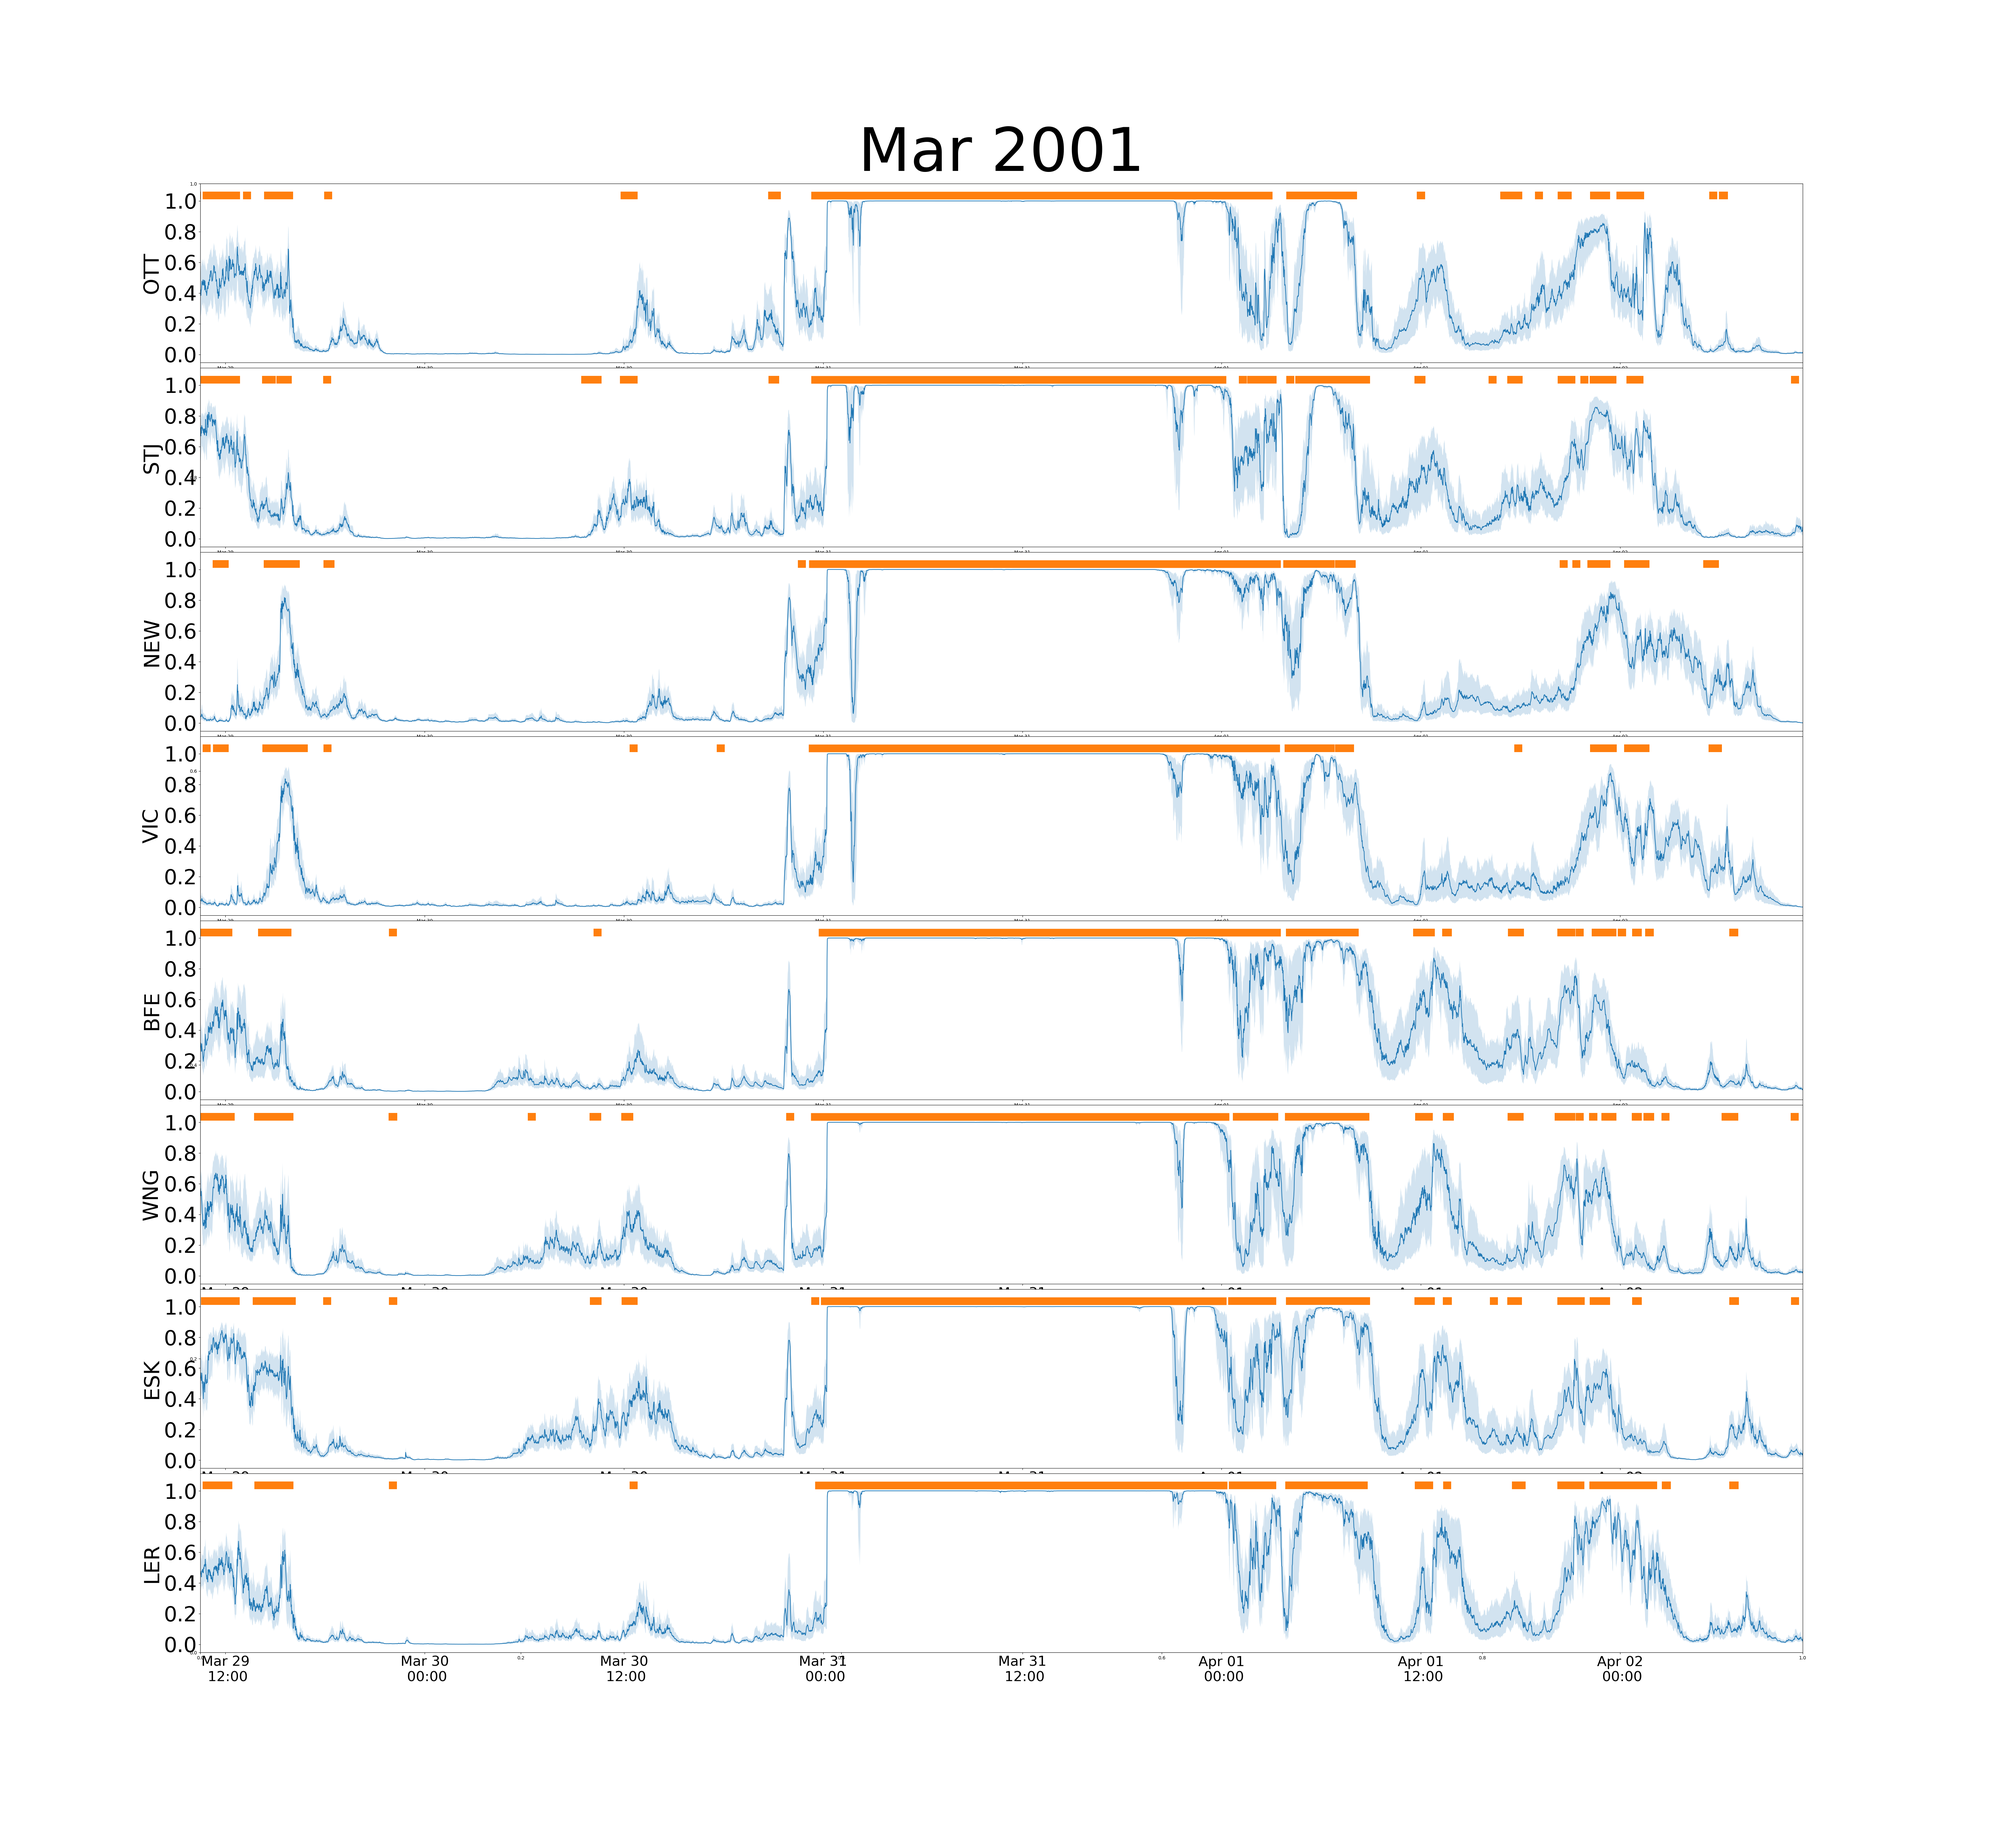
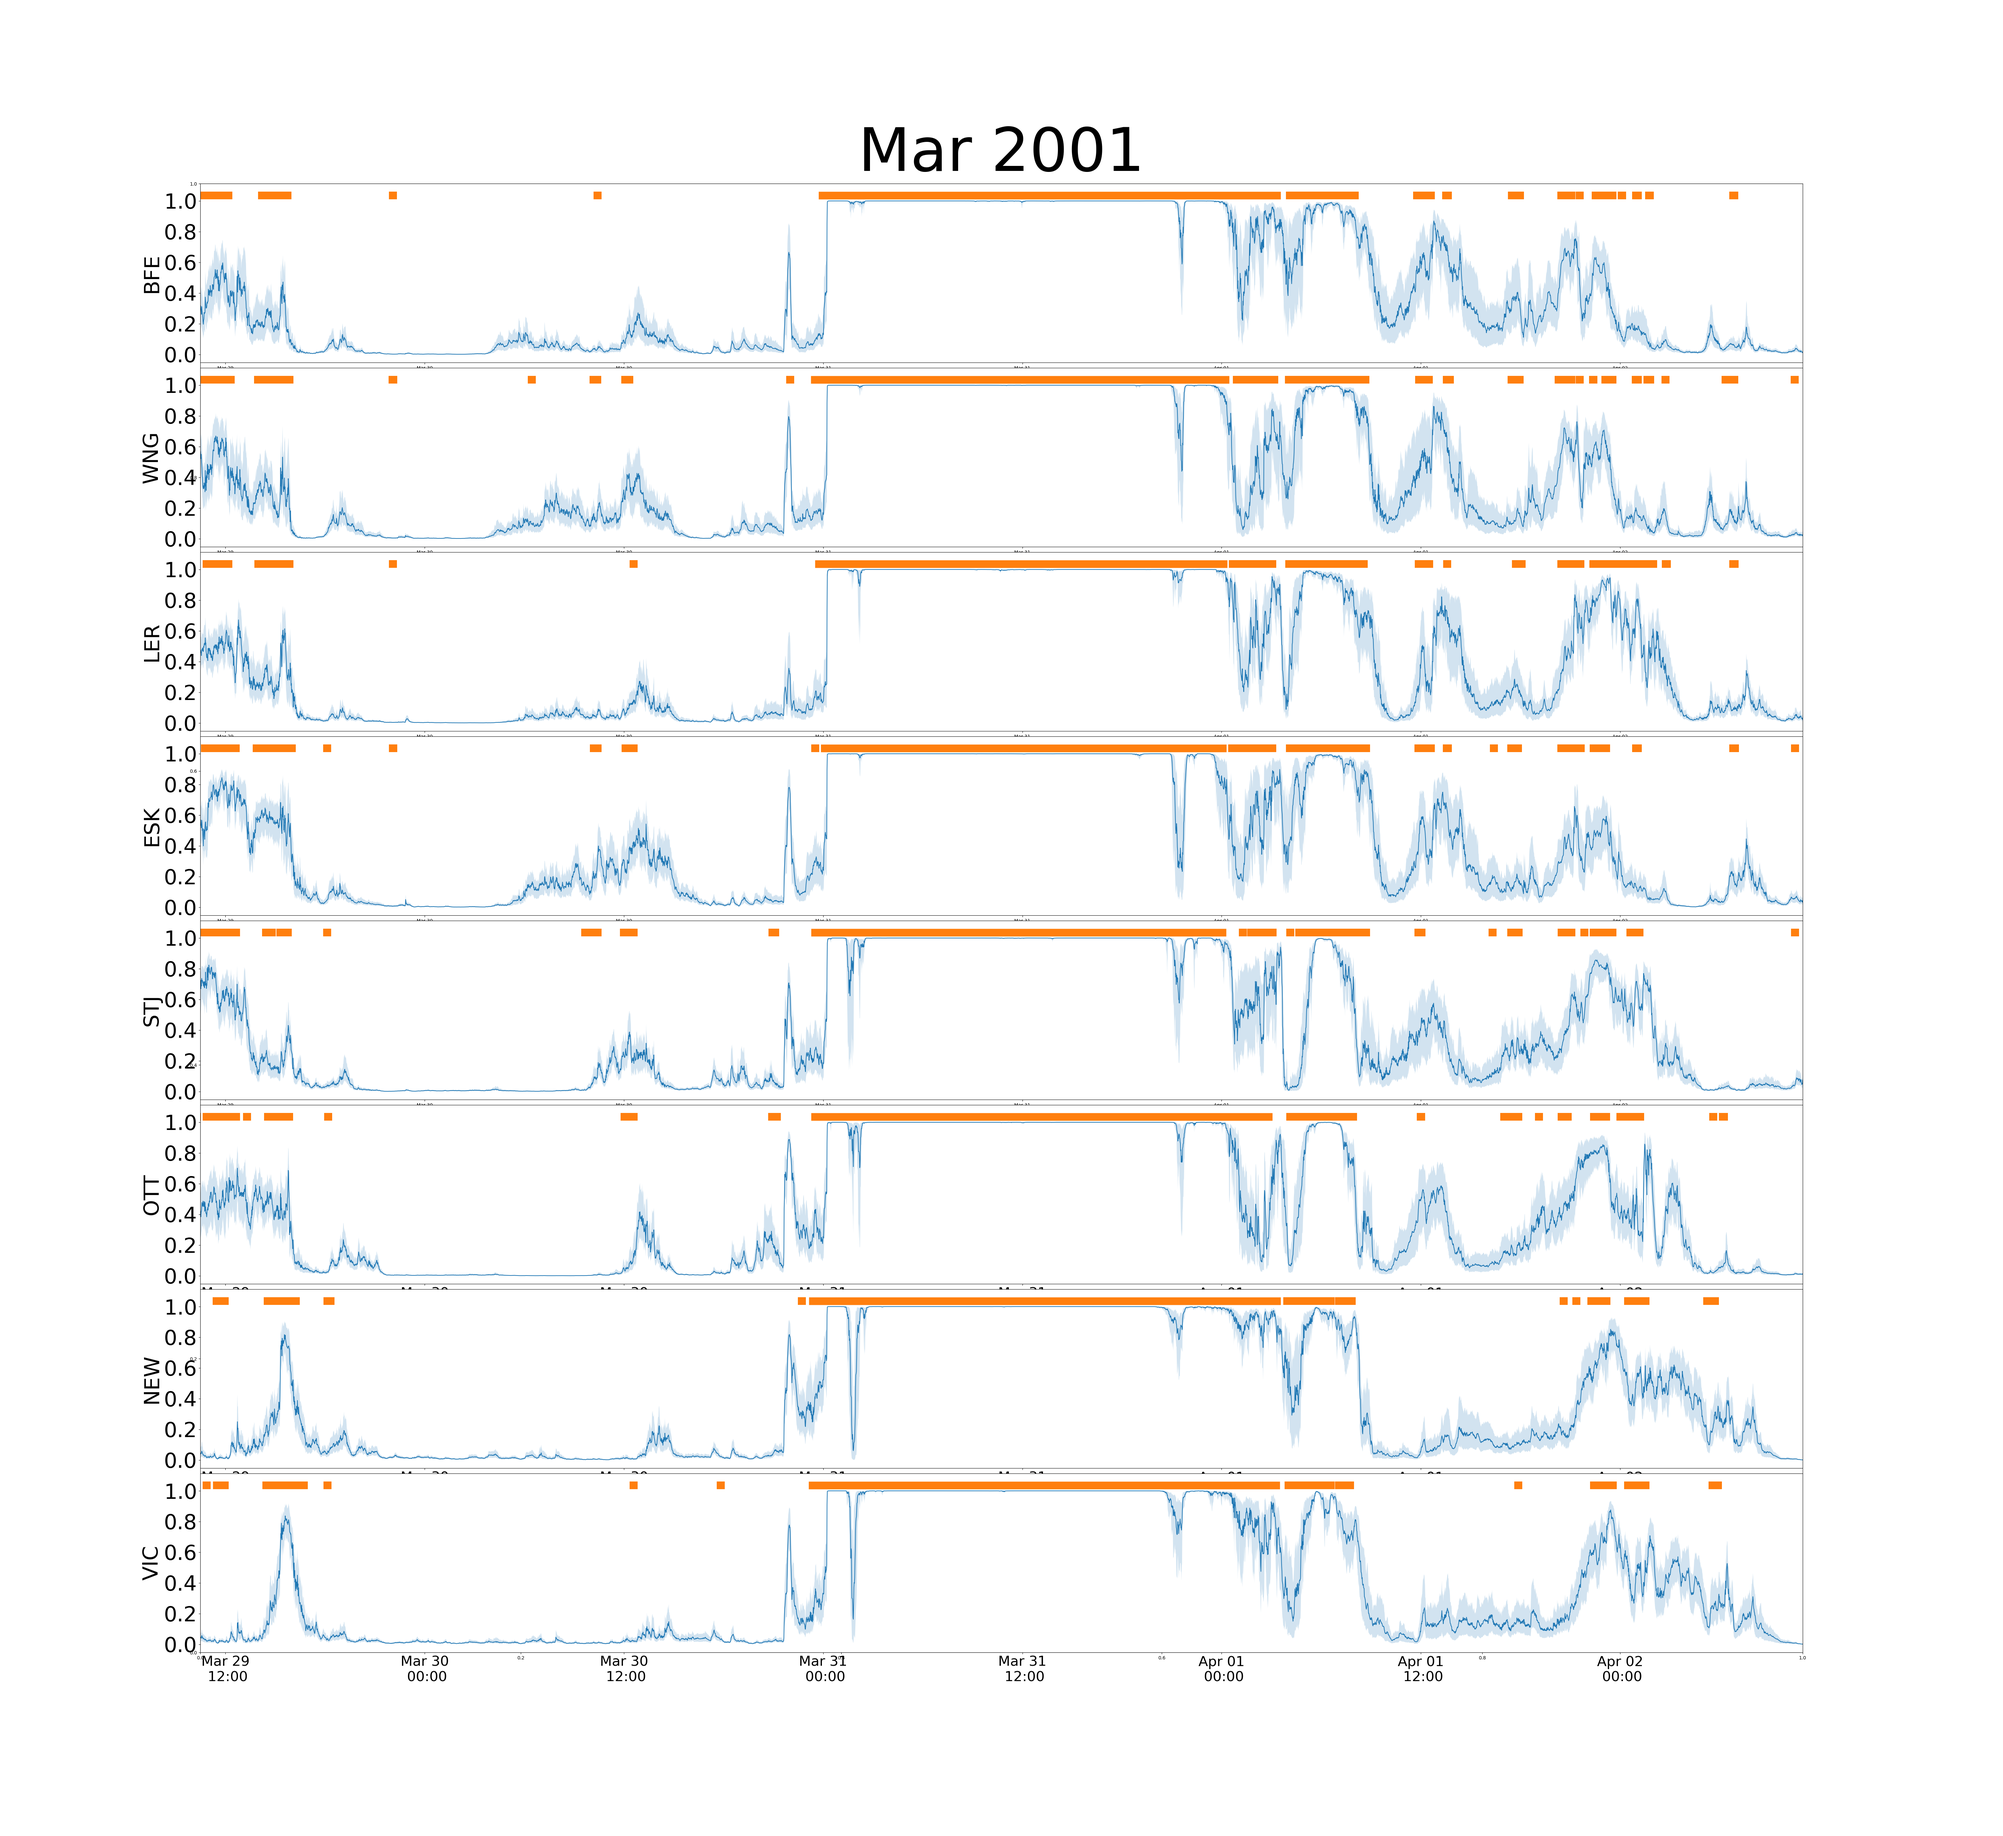
changing the order of the plotted stations

diff --git a/plotting.py b/plotting.py
@@ -334,92 +334,92 @@ def plot_model_outputs(results_dict, storm, splits, title, stime, etime):
 	plt.title(title, fontsize=130)
 
 	ax1 = fig.add_subplot(811)			# initalizing the subplot
-	z1=np.array(OTT_bar['OTT_bottom'])		# creates an array from the y_bar dataframe
-	z2=np.array(OTT_bar['OTT_top'])			# creates another array. These two arrays are compared to create the bar at the top of the plots.
-	ax1.plot(OTT['mean'])								# plots the mean columns of the dataframe.
-	ax1.fill_between(OTT.index, OTT['bottom_perc'], OTT['top_perc'], alpha=0.2)	# type: ignore # fills the area between the confidence interval with a lighter shade
-	ax1.fill_between(OTT_bar.index, OTT_bar['OTT_bottom'], OTT_bar['OTT_top'], where=z2>z1, alpha=1)												# type: ignore # creates a bar at the top of the plot indicating the positve part of the binary real data
+	z1=np.array(BFE_bar['BFE_bottom'])		# creates an array from the y_bar dataframe
+	z2=np.array(BFE_bar['BFE_top'])			# creates another array. These two arrays are compared to create the bar at the top of the plots.
+	ax1.plot(BFE['mean'])								# plots the mean columns of the dataframe.
+	ax1.fill_between(BFE.index, BFE['bottom_perc'], BFE['top_perc'], alpha=0.2)	# type: ignore # fills the area between the confidence interval with a lighter shade
+	ax1.fill_between(BFE_bar.index, BFE_bar['BFE_bottom'], BFE_bar['BFE_top'], where=z2>z1, alpha=1)												# type: ignore # creates a bar at the top of the plot indicating the positve part of the binary real data
 	ax1.margins(x=0)							# tightning the plot margins
-	ax1.set_ylabel('OTT', fontsize='45')
+	ax1.set_ylabel('BFE', fontsize='45')
 	plt.yticks(fontsize='45')
 	ax1.set_xticklabels('')
 
 	ax2 = fig.add_subplot(812, sharex=ax1)
-	z1=np.array(STJ_bar['STJ_bottom'])
-	z2=np.array(STJ_bar['STJ_top'])
-	ax2.plot(STJ.index, STJ['mean'])
-	ax2.fill_between(STJ.index, STJ['bottom_perc'], STJ['top_perc'], alpha=0.2)  # type: ignore
-	ax2.fill_between(STJ_bar.index, STJ_bar['STJ_bottom'], STJ_bar['STJ_top'], where=z2>z1, alpha=1)  # type: ignore
+	z1=np.array(WNG_bar['WNG_bottom'])
+	z2=np.array(WNG_bar['WNG_top'])
+	ax2.plot(WNG.index, WNG['mean'])
+	ax2.fill_between(WNG.index, WNG['bottom_perc'], WNG['top_perc'], alpha=0.2)  # type: ignore
+	ax2.fill_between(WNG_bar.index, WNG_bar['WNG_bottom'], WNG_bar['WNG_top'], where=z2>z1, alpha=1)  # type: ignore
 	ax2.margins(x=0)
-	ax2.set_ylabel('STJ', fontsize='45')
+	ax2.set_ylabel('WNG', fontsize='45')
 	plt.yticks(fontsize='45')
-	ax2.xaxis.set_major_formatter(mdates.DateFormatter('%b %d\n %H:%M'))			# adds the date to the bottom of the plot
+	ax2.set_xticklabels('')			# adds the date to the bottom of the plot
 
 	ax3 = fig.add_subplot(813, sharex=ax1)			# initalizing the subplot
-	z1=np.array(NEW_bar['NEW_bottom'])		# creates an array from the y_bar dataframe
-	z2=np.array(NEW_bar['NEW_top'])			# creates another array. These two arrays are compared to create the bar at the top of the plots.
-	ax3.plot(NEW['mean'])								# plots the mean columns of the dataframe.
-	ax3.fill_between(NEW.index, NEW['bottom_perc'], NEW['top_perc'], alpha=0.2)	# type: ignore # fills the area between the confidence interval with a lighter shade
-	ax3.fill_between(NEW_bar.index, NEW_bar['NEW_bottom'], NEW_bar['NEW_top'], where=z2>z1, alpha=1)												# type: ignore # creates a bar at the top of the plot indicating the positve part of the binary real data
+	z1=np.array(LER_bar['LER_bottom'])		# creates an array from the y_bar dataframe
+	z2=np.array(LER_bar['LER_top'])			# creates another array. These two arrays are compared to create the bar at the top of the plots.
+	ax3.plot(LER['mean'])								# plots the mean columns of the dataframe.
+	ax3.fill_between(LER.index, LER['bottom_perc'], LER['top_perc'], alpha=0.2)	# type: ignore # fills the area between the confidence interval with a lighter shade
+	ax3.fill_between(LER_bar.index, LER_bar['LER_bottom'], LER_bar['LER_top'], where=z2>z1, alpha=1)												# type: ignore # creates a bar at the top of the plot indicating the positve part of the binary real data
 	ax3.margins(x=0)							# tightning the plot margins
-	ax3.set_ylabel('NEW', fontsize='45')
+	ax3.set_ylabel('LER', fontsize='45')
 	plt.yticks(fontsize='45')
 	ax3.set_xticklabels('')
 
 	ax4 = fig.add_subplot(814, sharex=ax1)
-	z1=np.array(VIC_bar['VIC_bottom'])
-	z2=np.array(VIC_bar['VIC_top'])
-	ax4.plot(VIC.index, VIC['mean'])
-	ax4.fill_between(VIC.index, VIC['bottom_perc'], VIC['top_perc'], alpha=0.2)  # type: ignore
-	ax4.fill_between(VIC_bar.index, VIC_bar['VIC_bottom'], VIC_bar['VIC_top'], where=z2>z1, alpha=1)  # type: ignore
+	z1=np.array(ESK_bar['ESK_bottom'])
+	z2=np.array(ESK_bar['ESK_top'])
+	ax4.plot(ESK.index, ESK['mean'])
+	ax4.fill_between(ESK.index, ESK['bottom_perc'], ESK['top_perc'], alpha=0.2)  # type: ignore
+	ax4.fill_between(ESK_bar.index, ESK_bar['ESK_bottom'], ESK_bar['ESK_top'], where=z2>z1, alpha=1)  # type: ignore
 	ax4.margins(x=0)
-	ax4.set_ylabel('VIC', fontsize='45')
+	ax4.set_ylabel('ESK', fontsize='45')
 	plt.yticks(fontsize='45')
-	ax4.xaxis.set_major_formatter(mdates.DateFormatter('%b %d\n %H:%M'))			# adds the date to the bottom of the plot
+	ax4.set_xticklabels('')			# adds the date to the bottom of the plot
 
 	ax5 = fig.add_subplot(815, sharex=ax1)			# initalizing the subplot
-	z1=np.array(BFE_bar['BFE_bottom'])		# creates an array from the y_bar dataframe
-	z2=np.array(BFE_bar['BFE_top'])			# creates another array. These two arrays are compared to create the bar at the top of the plots.
-	ax5.plot(BFE['mean'])								# plots the mean columns of the dataframe.
-	ax5.fill_between(BFE.index, BFE['bottom_perc'], BFE['top_perc'], alpha=0.2)	# type: ignore # fills the area between the confidence interval with a lighter shade
-	ax5.fill_between(BFE_bar.index, BFE_bar['BFE_bottom'], BFE_bar['BFE_top'], where=z2>z1, alpha=1)												# type: ignore # creates a bar at the top of the plot indicating the positve part of the binary real data
+	z1=np.array(STJ_bar['STJ_bottom'])		# creates an array from the y_bar dataframe
+	z2=np.array(STJ_bar['STJ_top'])			# creates another array. These two arrays are compared to create the bar at the top of the plots.
+	ax5.plot(STJ['mean'])								# plots the mean columns of the dataframe.
+	ax5.fill_between(STJ.index, STJ['bottom_perc'], STJ['top_perc'], alpha=0.2)	# type: ignore # fills the area between the confidence interval with a lighter shade
+	ax5.fill_between(STJ_bar.index, STJ_bar['STJ_bottom'], STJ_bar['STJ_top'], where=z2>z1, alpha=1)												# type: ignore # creates a bar at the top of the plot indicating the positve part of the binary real data
 	ax5.margins(x=0)							# tightning the plot margins
-	ax5.set_ylabel('BFE', fontsize='45')
+	ax5.set_ylabel('STJ', fontsize='45')
 	plt.yticks(fontsize='45')
 	ax5.set_xticklabels('')
 
 	ax6 = fig.add_subplot(816, sharex=ax1)
-	z1=np.array(WNG_bar['WNG_bottom'])
-	z2=np.array(WNG_bar['WNG_top'])
-	ax6.plot(WNG['mean'])
-	ax6.fill_between(WNG.index, WNG['bottom_perc'], WNG['top_perc'], alpha=0.2)  # type: ignore
-	ax6.fill_between(WNG_bar.index, WNG_bar['WNG_bottom'], WNG_bar['WNG_top'], where=z2>z1, alpha=1)  # type: ignore
+	z1=np.array(OTT_bar['OTT_bottom'])
+	z2=np.array(OTT_bar['OTT_top'])
+	ax6.plot(OTT['mean'])
+	ax6.fill_between(OTT.index, OTT['bottom_perc'], OTT['top_perc'], alpha=0.2)  # type: ignore
+	ax6.fill_between(OTT_bar.index, OTT_bar['OTT_bottom'], OTT_bar['OTT_top'], where=z2>z1, alpha=1)  # type: ignore
 	ax6.margins(x=0)
-	ax6.set_ylabel('WNG', fontsize='45')
+	ax6.set_ylabel('OTT', fontsize='45')
 	plt.yticks(fontsize='45')
 	plt.xticks(fontsize=30)
 	ax6.set_xticklabels('')
 
 	ax7 = fig.add_subplot(817, sharex=ax1)
-	z1=np.array(ESK_bar['ESK_bottom'])
-	z2=np.array(ESK_bar['ESK_top'])
-	ax7.plot(ESK['mean'])
-	ax7.fill_between(ESK.index, ESK['bottom_perc'], ESK['top_perc'], alpha=0.2)  # type: ignore
-	ax7.fill_between(ESK_bar.index, ESK_bar['ESK_bottom'], ESK_bar['ESK_top'], where=z2>z1, alpha=1)  # type: ignore
+	z1=np.array(NEW_bar['NEW_bottom'])
+	z2=np.array(NEW_bar['NEW_top'])
+	ax7.plot(NEW['mean'])
+	ax7.fill_between(NEW.index, NEW['bottom_perc'], NEW['top_perc'], alpha=0.2)  # type: ignore
+	ax7.fill_between(NEW_bar.index, NEW_bar['NEW_bottom'], NEW_bar['NEW_top'], where=z2>z1, alpha=1)  # type: ignore
 	ax7.margins(x=0)
-	ax7.set_ylabel('ESK', fontsize='45')
+	ax7.set_ylabel('NEW', fontsize='45')
 	plt.yticks(fontsize='45')
 	plt.xticks(fontsize=30)
 	ax7.set_xticklabels('')
 
 	ax8 = fig.add_subplot(818, sharex=ax1)
-	z1=np.array(LER_bar['LER_bottom'])
-	z2=np.array(LER_bar['LER_top'])
-	ax8.plot(LER['mean'])
-	ax8.fill_between(LER.index, LER['bottom_perc'], LER['top_perc'], alpha=0.2)  # type: ignore
-	ax8.fill_between(LER_bar.index, LER_bar['LER_bottom'], LER_bar['LER_top'], where=z2>z1, alpha=1)  # type: ignore
+	z1=np.array(VIC_bar['VIC_bottom'])
+	z2=np.array(VIC_bar['VIC_top'])
+	ax8.plot(VIC['mean'])
+	ax8.fill_between(VIC.index, VIC['bottom_perc'], VIC['top_perc'], alpha=0.2)  # type: ignore
+	ax8.fill_between(VIC_bar.index, VIC_bar['VIC_bottom'], VIC_bar['VIC_top'], where=z2>z1, alpha=1)  # type: ignore
 	ax8.margins(x=0)
-	ax8.set_ylabel('LER', fontsize='45')
+	ax8.set_ylabel('VIC', fontsize='45')
 	plt.yticks(fontsize='45')
 	plt.xticks(fontsize=30)
 	ax8.xaxis.set_major_formatter(mdates.DateFormatter('%b %d\n %H:%M'))			# adds the date to the bottom of the plot
